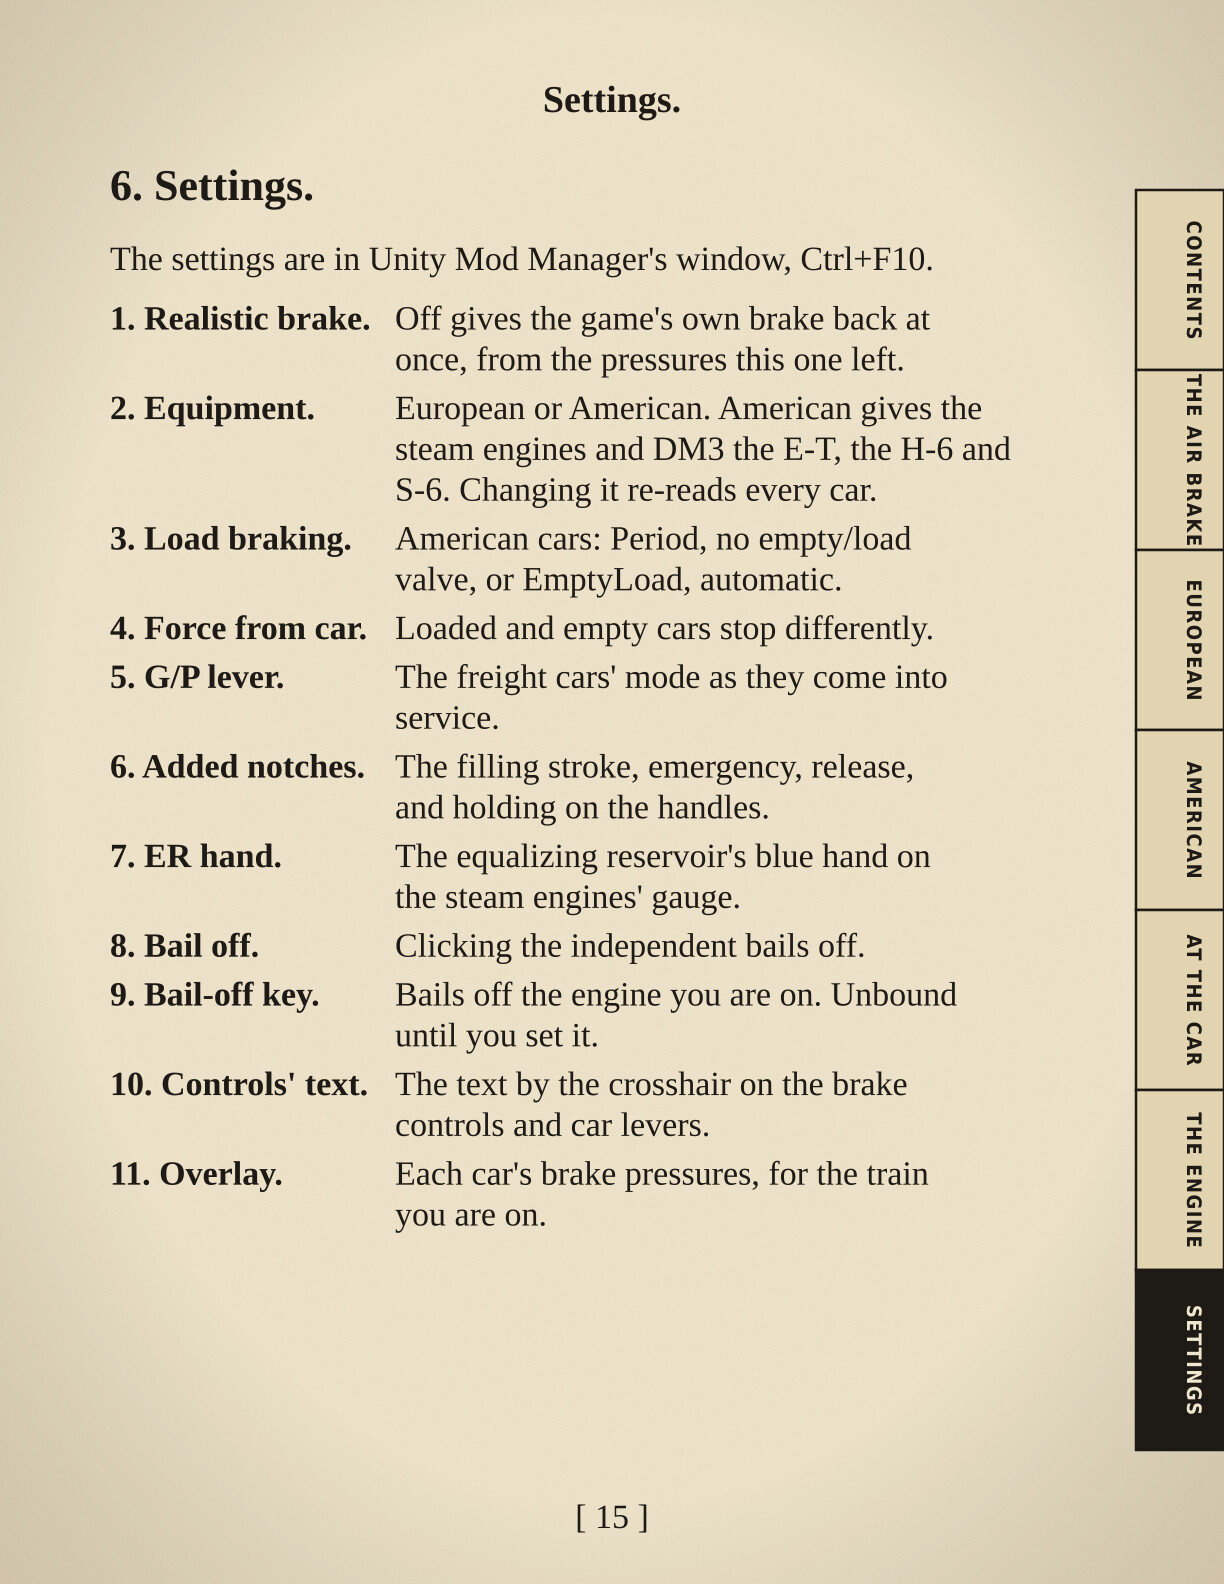
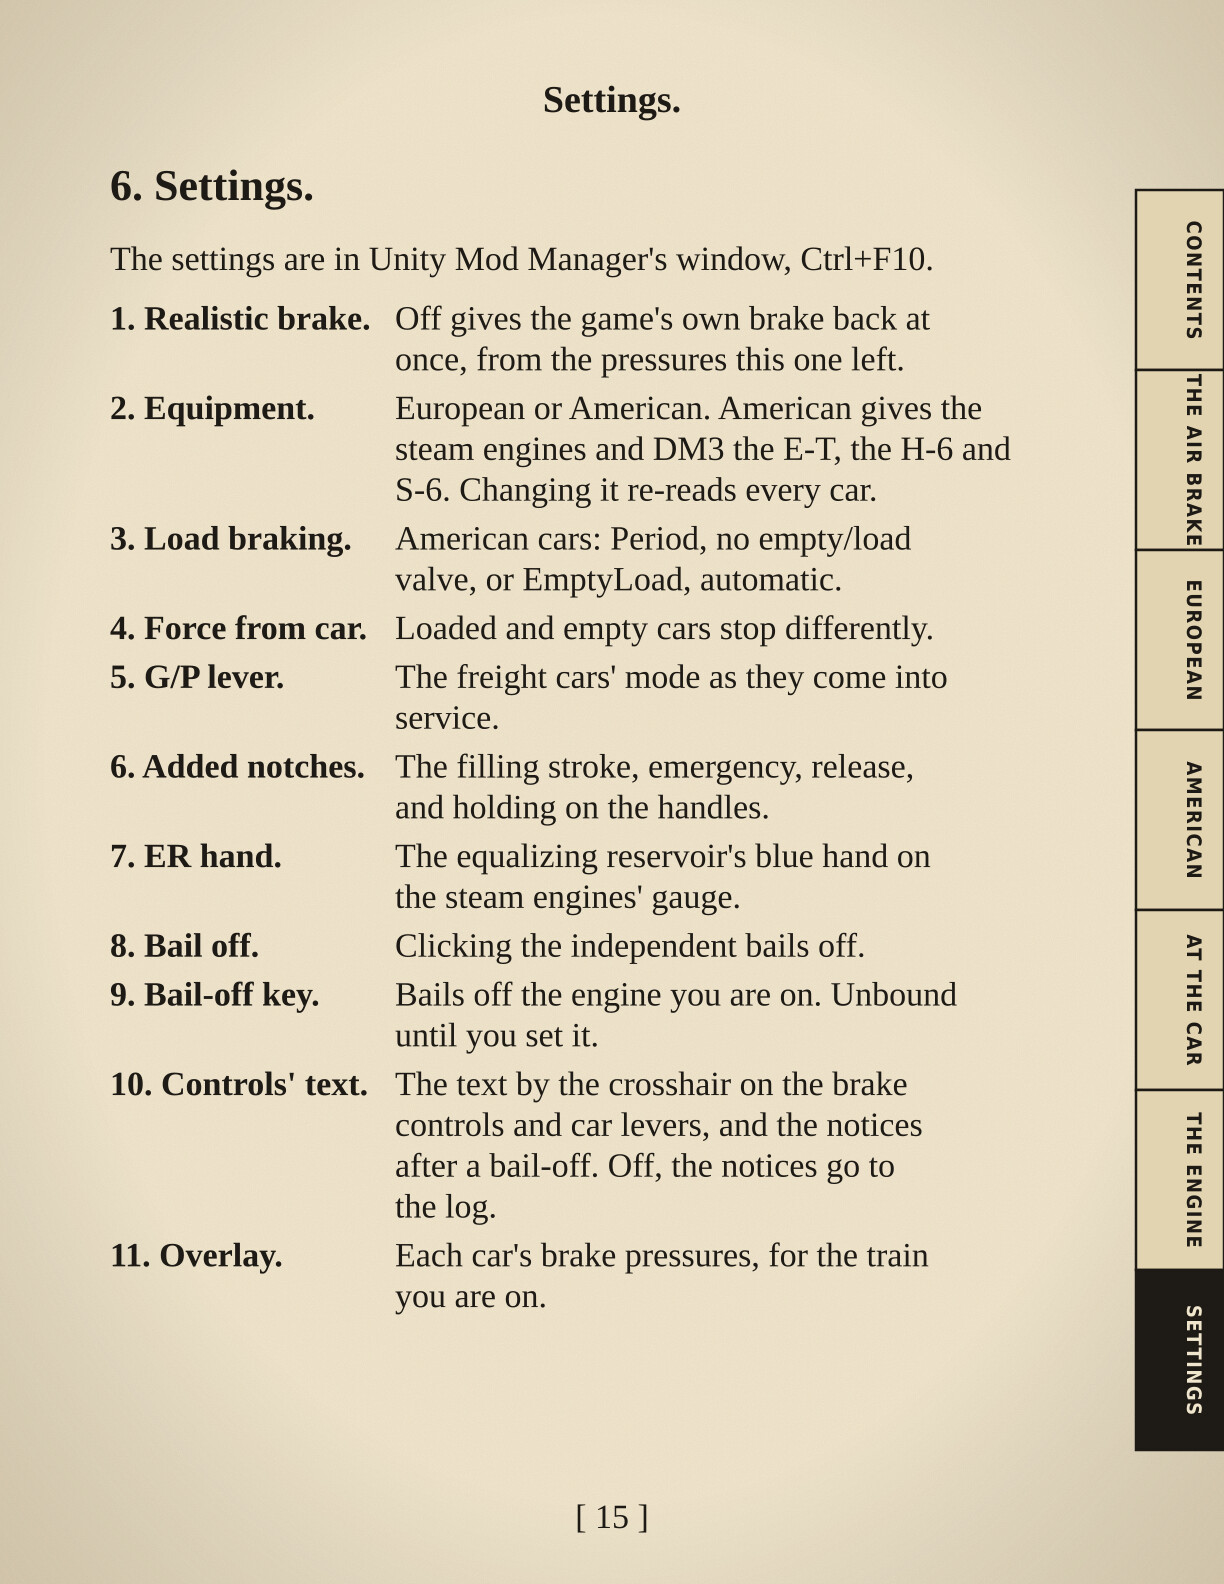
Release Realistic Brakes 1.2.4 source snapshot

Changed region(s): [[0.3105, 0.6806, 0.7451, 0.8352], [0.0931, 0.7115, 0.2173, 0.8043], [0.1242, 0.7115, 0.1552, 0.7424]]

diff --git a/src/RealisticBrakes/Notice.cs b/src/RealisticBrakes/Notice.cs
@@ -2,12 +2,7 @@ using UnityEngine;
 
 namespace RealisticBrakes
 {
-    /// <summary>
-    /// A short notice under the crosshair, and in the log: what a click on a
-    /// control did. Drawn below Realistic Firing's own notices, so the two
-    /// mods' never overlap.
-    /// </summary>
-    internal sealed class Notice : MonoBehaviour
+ internal sealed class Notice : MonoBehaviour
     {
         private const float Offset = 96f;
         private const float Seconds = 4f;
@@ -17,12 +12,25 @@ namespace RealisticBrakes
 
         private GUIStyle style;
 
-        /// <summary>Shows <paramref name="message"/> for a few seconds, and logs it.</summary>
+        /// <summary>Shows <paramref name="message"/> for a few seconds, unless the brake controls' text is off, and logs it.</summary>
         public static void Show(string message)
+        {
+            Main.Mod?.Logger.Log(message);
+            if (Main.Settings == null || Main.Settings.ShowValveText)
+                Display(message);
+        }
+
+        /// <summary>Shows <paramref name="message"/> for a few seconds whatever the settings, and logs it as a warning: a real problem.</summary>
+        public static void Warn(string message)
+        {
+            Main.Mod?.Logger.Warning(message);
+            Display(message);
+        }
+
+        private static void Display(string message)
         {
             text = message;
             shownAt = Time.time;
-            Main.Mod?.Logger.Log(message);
         }
 
         private void OnGUI()

diff --git a/art/booklet/make_booklet.py b/art/booklet/make_booklet.py
@@ -29,7 +29,7 @@ INK = "#1e1a15"
 PAPER = "#efe5cc"
 RED = "#9d3427"
 BLUE = "#2e4c80"
-EDITION = "1.2.3"
+EDITION = "1.2.4"
 
 LEFT, RIGHT = 110, W - 144
 
@@ -413,7 +413,7 @@ CHAPTERS = [
             ("ER hand", "The equalizing reservoir's blue hand on the steam engines' gauge."),
             ("Bail off", "Clicking the independent bails off."),
             ("Bail-off key", "Bails off the engine you are on. Unbound until you set it."),
-            ("Controls' text", "The text by the crosshair on the brake controls and car levers."),
+            ("Controls' text", "The text by the crosshair on the brake controls and car levers, and the notices after a bail-off. Off, the notices go to the log."),
             ("Overlay", "Each car's brake pressures, for the train you are on."),
         ]),
     ]),

diff --git a/src/RealisticBrakes/Settings.cs b/src/RealisticBrakes/Settings.cs
@@ -55,7 +55,7 @@ namespace RealisticBrakes
         [Draw("Bail-off key: bails off the engine you're on, as the click does (unbound until you set it)")]
         public KeyBinding BailOffKey = new KeyBinding();
 
-        [Draw("Looking at an engine's train brake, independent brake, or brake valve cut-out, or a car's brake levers, shows where it stands by the crosshair (not in VR)")]
+        [Draw("Looking at an engine's train brake, independent brake, or brake valve cut-out, or a car's brake levers, shows where it stands by the crosshair (not in VR); bailing off and the booklet button show a notice. Off, the notices go to the log only")]
         public bool ShowValveText = true;
 
         [Draw("Show each car's brake pressures for the train you're on")]

diff --git a/src/RealisticBrakes/Sim/Net.cs b/src/RealisticBrakes/Sim/Net.cs
@@ -289,7 +289,7 @@ namespace RealisticBrakes.Sim
             CarLevers.RefitAll();
             var version = Main.Mod?.Info.Version;
             if (hostVersion != version)
-                Notice.Show($"The host runs Realistic Brakes {hostVersion}, you {version}: brakes may differ");
+                Notice.Warn($"The host runs Realistic Brakes {hostVersion}, you {version}: brakes may differ");
             else if (!mine.SameAs(host))
                 Notice.Show("Realistic Brakes: using the host's brake settings for this session");
         }

diff --git a/PLAYER-GUIDE.md b/PLAYER-GUIDE.md
@@ -240,7 +240,10 @@ page, or a tab down its edge, to turn to that chapter.
 - **Click to bail off:** on by default.
 - **Bail-off key:** unbound until you set it. It bails off the engine
   you're on, as the click does, even with the click turned off.
-- **Brake controls' text** by the crosshair: on by default.
+- **Brake controls' text** by the crosshair: on by default. It covers
+  the notices after a bail-off or the booklet button too; off, they go to
+  the log only. A warning that a multiplayer host runs another version
+  still shows.
 - **Show each car's brake pressures** (off by default): an overlay for the train you're on:
   pipe, control (or, on American cars, emergency) reservoir, auxiliary
   reservoir, and cylinder, in gauge bar.

diff --git a/CHANGELOG.md b/CHANGELOG.md
@@ -1,5 +1,11 @@
 # Changelog
 
+## 1.2.4 (2026-11-02)
+
+- The brake controls' text setting also hides the notices after a
+  bail-off or the booklet button: off, they go to the log only. A warning
+  that a multiplayer host runs another version still shows.
+
 ## 1.2.3 (2026-11-01)
 
 - The S-6 independent (American equipment): lap holds the engine's brakes
